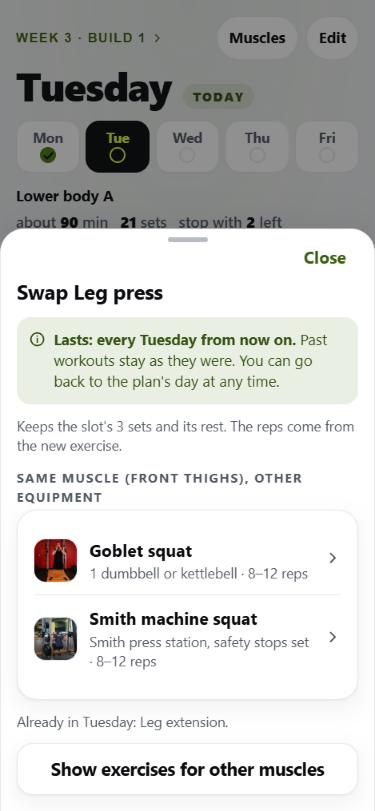
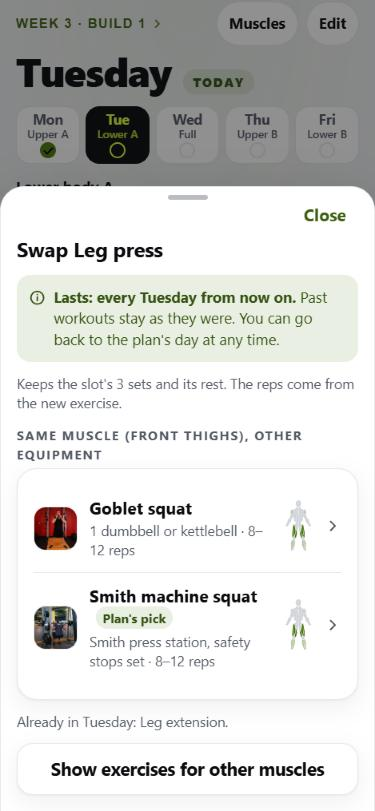
Prototype 8.28 A: review of builder B and one round of changes
REVIEW-of-B.md: what B does better and worse, two editing bugs with steps
(swap and add can put the same exercise twice in a day), measured tap counts.
Changes taken from B's ideas, done our own way: mini body map on each card and
swap row, Previous/Next in the exercise layer, day focus in the strip,
"Plan's pick" in the swap list, four ways (Search, Digits, Quick add, Copy
yesterday) on the Diet screen. Re-taken shots; REPORT section 10.

diff --git a/redesign/plan-diet/a/js/ui/plan2.js b/redesign/plan-diet/a/js/ui/plan2.js
@@ -22,10 +22,10 @@ import { videoButton, machineRow } from "./exinfo.js";
 import { icon } from "./icons.js";
 import { onMount, stagger } from "./motion.js";
 import { musclesOf, muscleWords, GROUPS, GROUP_NAME, EQ_NAME, eqOf, mainGroup } from "../proto/muscles.js";
-import { bodyMap, exerciseLevels, setsByGroup, levelFor, legend } from "../proto/bodymap.js";
+import { bodyMap, exerciseLevels, setsByGroup, levelFor, legend, miniMap } from "../proto/bodymap.js";
 import {
   slotsOf, weekSets, editRecord, runningWorkout, swapSlot, removeSlot, addExercise, restoreSlots, resetDay,
-  changeSummary, matchesFor, freeAddSlot, extraMinutes, MAX_ADDED, hiddenByGym, machineNeeded,
+  changeSummary, matchesFor, freeAddSlot, extraMinutes, MAX_ADDED, hiddenByGym,
 } from "../proto/plandays.js";
 import { undoToast } from "../proto/toast.js";
 import { renderMuscles, weeklyCounts } from "./crosscheck.js";
@@ -48,6 +48,8 @@ function restWords(slot) {
   return `rest ${slot.rest} s`;
 }
 const dayShort = (d) => days[d].name.slice(0, 3);
+// "Upper body A" -> "Upper A", "Full body (a bit lighter)" -> "Full" (strip label; idea from builder B).
+const focusShort = (d) => days[d].focus.replace(/\s*\(.*\)/, "").replace(" body", "");
 const fmtDate = (iso) => new Date(iso).toLocaleDateString("en-GB", { day: "numeric", month: "short" });
 
 function currentPos(doc) {
@@ -123,6 +125,7 @@ export function openExerciseLayer(exId, ctx = null) {
       h("button", { class: "chip", type: "button", onclick: () => { close(); doRemove(ctx.day, ctx.slot); } }, icon("close", 17), "Remove"),
       video ? videoButton(exId, { chip: true }) : null) : null,
     exerciseMaps(exId, slot ? { doc, day: ctx.day, week: ctx.week, slot: ctx.slot } : {}),
+    slot ? layerNav(doc, ctx, () => close()) : null,
     flip(exId, { cls: "big-flip", tag: true }),
     photoNote(exId),
     photoPair(exId),
@@ -134,6 +137,21 @@ export function openExerciseLayer(exId, ctx = null) {
     h("div", { class: "card" }, machineRow(exId, { onSaved: () => { closeSheets(); rerender(); } })),
     planSwaps.length ? h("p", { class: "small muted" }, `The plan's own swap: ${planSwaps.join("; ")}.`) : null);
   return close;
+}
+
+// Previous / Next: walk the day card by card without closing the layer; the "Day so far" map grows as you go
+// (idea from builder B's review; here the buttons sit right under the maps, where the eye already is).
+function layerNav(doc, ctx, close) {
+  const all = weekSlots(doc, ctx.day, ctx.week);
+  const i = all.findIndex((s) => s.slot === ctx.slot);
+  const go = (s) => { close(); openExerciseLayer(s.ex, { ...ctx, slot: s.slot }); };
+  const prev = all[i - 1];
+  const next = all[i + 1];
+  return h("div", { class: "layer-nav" },
+    h("button", { class: "button secondary", type: "button", disabled: !prev, onclick: () => prev && go(prev), "aria-label": prev ? `Previous exercise: ${exercises[prev.ex].name}` : "No previous exercise" },
+      icon("back", 18), h("span", {}, prev ? exercises[prev.ex].name : "First")),
+    h("button", { class: "button secondary", type: "button", disabled: !next, onclick: () => next && go(next), "aria-label": next ? `Next exercise: ${exercises[next.ex].name}` : "No next exercise" },
+      h("span", {}, next ? exercises[next.ex].name : "Last"), icon("chevron", 18)));
 }
 
 // ---------- changes (saved at once, permanent, with Undo) ----------
@@ -151,14 +169,15 @@ function doRemove(day, slotName) {
   withUndo(day, () => removeSlot(day, slotName), `Removed ${ex.name} from every ${days[day].name} from now on.`);
 }
 
-function swapRow(day, slotName, id, fromName) {
+function swapRow(day, slotName, id, fromName, tag = null) {
   const ex = exercises[id];
   return h("button", { class: "mach-row", type: "button", onclick: () => {
     closeSheets();
     withUndo(day, () => swapSlot(day, slotName, id), `Every ${days[day].name} from now on: ${ex.name} instead of ${fromName}.`);
   } },
   thumb(id, { small: true }),
-  h("span", { class: "grow" }, h("b", {}, ex.name), h("span", { class: "small muted" }, `${ex.equipment} · ${repText(ex)} ${repWord(ex)}`)),
+  h("span", { class: "grow" }, h("b", {}, ex.name, tag ? h("span", { class: "badge slot inline" }, tag) : null), h("span", { class: "small muted" }, `${ex.equipment} · ${repText(ex)} ${repWord(ex)}`)),
+  miniMap(id),
   h("span", { class: "muted" }, icon("chevron", 18)));
 }
 
@@ -173,6 +192,10 @@ export function openSwapList(day, slotName, week) {
   const m = matchesFor(doc, day, slot.ex);
   const eq = EQ_NAME[eqOf(slot.ex)];
   const muscle = GROUP_NAME[m.group]?.toLowerCase() ?? from.muscle;
+  // "Plan's pick" (idea from builder B): the plan's own swap for this slot, or the plan's exercise if it was swapped out.
+  const planEx = days[day].slots.find((s) => s.slot === slotName)?.ex;
+  const picks = new Set(planEx ? [planEx, ...exercises[planEx].swaps.map((sw) => sw.id)] : []);
+  const tagFor = (id) => (id === planEx ? "The plan's exercise" : picks.has(id) ? "Plan's pick" : null);
   const all = h("div", {});
   const showAll = () => {
     const inDay = new Set(slotsOf(doc, day).map((s) => s.ex));
@@ -184,8 +207,8 @@ export function openSwapList(day, slotName, week) {
     h("h2", {}, `Swap ${from.name}`),
     lastsLine(day),
     h("p", { class: "small muted" }, `Keeps the slot's ${slot.sets} sets and its rest. The reps come from the new exercise.`),
-    m.same.length ? [h("div", { class: "eyebrow" }, `Same muscle (${muscle}), same kind (${eq})`), h("div", { class: "card" }, m.same.map((id) => swapRow(day, slotName, id, from.name)))] : null,
-    m.other.length ? [h("div", { class: "eyebrow" }, `Same muscle (${muscle}), other equipment`), h("div", { class: "card" }, m.other.map((id) => swapRow(day, slotName, id, from.name)))] : null,
+    m.same.length ? [h("div", { class: "eyebrow" }, `Same muscle (${muscle}), same kind (${eq})`), h("div", { class: "card" }, m.same.map((id) => swapRow(day, slotName, id, from.name, tagFor(id))))] : null,
+    m.other.length ? [h("div", { class: "eyebrow" }, `Same muscle (${muscle}), other equipment`), h("div", { class: "card" }, m.other.map((id) => swapRow(day, slotName, id, from.name, tagFor(id))))] : null,
     !m.same.length && !m.other.length ? h("div", { class: "card warn" },
       h("p", {}, h("b", {}, `No other exercise in the app works the ${muscle} as the main muscle`), m.hidden.length ? " with the machines your gym is known to have." : "."),
       h("p", { class: "small muted" }, `Keep ${from.name}, remove it, or pick from another muscle below.`)) : null,
@@ -218,7 +241,7 @@ function openAdd(day, week) {
         withUndo(day, () => addExercise(day, id), `Added ${exercises[id].name} to the end of every ${days[day].name} from now on.`);
       } }, thumb(id, { small: true }), h("span", { class: "grow" }, h("b", {}, exercises[id].name), h("span", { class: "small muted" }, exercises[id].equipment)), h("span", { class: "muted" }, icon("plus", 18)))))
         : h("p", { class: "muted" }, `${days[day].name} already has every ${GROUP_NAME[pick].toLowerCase()} exercise the app knows.`),
-      hidden.length ? h("p", { class: "small muted" }, `Not shown: ${hidden.map((id) => exercises[id].name).join(", ")} (first visit has not found ${hidden.length > 1 ? "them" : "it"} yet: Settings > Gym; ${machineNeeded(hidden[0]) ? "a machine check" : ""}).`) : null);
+      hidden.length ? h("p", { class: "small muted" }, `Not shown: ${hidden.map((id) => exercises[id].name).join(", ")}. Your first visit has not found ${hidden.length > 1 ? "these machines" : "this machine"} yet (Settings > Gym).`) : null);
   };
   draw();
   openSheet(
@@ -269,9 +292,9 @@ function exCard(doc, day, week, slot, editing, canEdit, planSlot) {
   ];
   if (!editing) {
     return h("button", { class: "pcard", type: "button", "aria-label": `${ex.name}: ${slot.sets} sets of ${repText(ex)} ${repWord(ex)}${side(ex)}. Open details.`, onclick: () => openExerciseLayer(slot.ex, { day, week, slot: slot.slot }) },
-      ...body, h("span", { class: "muted" }, icon("chevron", 18)));
+      ...body, miniMap(slot.ex), h("span", { class: "muted" }, icon("chevron", 18)));
   }
-  return h("div", { class: "pcard editing" }, ...body,
+  return h("div", { class: "pcard editing" }, ...body, miniMap(slot.ex),
     h("span", { class: "edit-btns" },
       h("button", { class: "icon-btn", type: "button", disabled: !canEdit, "aria-label": `Swap ${ex.name}`, onclick: () => openSwapList(day, slot.slot, week) }, icon("swap", 20), h("span", {}, "Swap")),
       h("button", { class: "icon-btn", type: "button", disabled: !canEdit, "aria-label": `Remove ${ex.name}`, onclick: () => doRemove(day, slot.slot) }, icon("close", 20), h("span", {}, "Remove"))));
@@ -284,7 +307,7 @@ function dayStrip(doc, shownDay, todayDay, week) {
       class: `${d === todayDay ? "is-today" : ""} ${done.has(d) ? "is-done" : ""} ${editRecord(doc, d) ? "is-changed" : ""}`, type: "button", role: "tab",
       "aria-selected": d === shownDay ? "true" : "false", "aria-label": `${days[d].name}${d === todayDay ? ", today" : ""}${done.has(d) ? ", done" : ""}${editRecord(doc, d) ? ", changed by you" : ""}`,
       onclick: () => { state.day = d; state.editing = false; rerender(); },
-    }, h("span", { class: "d" }, dayShort(d)), h("i", { "aria-hidden": "true" }, done.has(d) ? icon("check", 14, { strokeWidth: 3 }) : null))));
+    }, h("span", { class: "d" }, dayShort(d)), h("span", { class: "f" }, focusShort(d)), h("i", { "aria-hidden": "true" }, done.has(d) ? icon("check", 14, { strokeWidth: 3 }) : null))));
 }
 
 export function renderPlan() {

diff --git a/redesign/plan-diet/a/js/ui/diet.js b/redesign/plan-diet/a/js/ui/diet.js
@@ -181,7 +181,7 @@ function messageSheet(title, text, onOwn = null) {
 // ---------- the scanner layer (camera drawn; real decoding is a later build step) ----------
 let scanLayer = null;
 function closeScanner() { if (scanLayer) { scanLayer.remove(); scanLayer = null; } }
-export function openScanner() {
+export function openScanner({ typed: typeFirst = false } = {}) {
   closeScanner();
   const digits = h("input", { type: "text", inputmode: "numeric", pattern: "[0-9]*", maxlength: "13", id: "scan-digits", placeholder: "8, 12 or 13 digits", autocomplete: "off" });
   const typed = h("form", { class: "scan-type", hidden: true, onsubmit: (e) => { e.preventDefault(); const c = digits.value.replace(/\D/g, ""); if (!c) return; closeScanner(); doLookup(c); } },
@@ -206,12 +206,13 @@ export function openScanner() {
         h("button", { class: "button ghost", type: "button", onclick: () => undoToast("Take a photo: opens the camera app for one still picture; the reader looks at that. Comes with the real build.") }, "Take a photo")),
       typed));
   document.body.append(scanLayer);
+  if (typeFirst) { typed.hidden = false; scanLayer.querySelector(".scan-two").hidden = true; digits.focus(); }
 }
 // The router closes sheets on every screen change; the scanner closes the same way (and stops the camera, in the real build).
 window.addEventListener("hashchange", closeScanner);
 
 // ---------- add sheet ----------
-export function openAdd() {
+export function openAdd({ focus = false } = {}) {
   const doc = model.doc();
   const t = todayStr();
   const yest = dayEntries(doc, addDays(t, -1));
@@ -242,6 +243,7 @@ export function openAdd() {
       h("span", { class: "muted" }, icon("chevron", 18))))),
     h("button", { class: "button secondary", type: "button", onclick: () => ownFoodSheet() }, "Make a new food"),
     offCredit());
+  if (focus) setTimeout(() => q.focus(), 50);
 }
 
 function quickSheet() {
@@ -268,6 +270,7 @@ export function renderDiet() {
   const entries = dayEntries(doc, t);
   const tot = totals(entries);
   const avg = average7(doc, t);
+  const yest = dayEntries(doc, addDays(t, -1));
   const loggedToday = new Set(entries.map((e) => e.food));
   // Foods not eaten yet today come first: they are the likely next ones.
   const recent = recentFoods(doc, 8).sort((a, b) => loggedToday.has(a.id) - loggedToday.has(b.id)).slice(0, 6);
@@ -280,6 +283,15 @@ export function renderDiet() {
       targets.protein_g ? meter("Protein", tot.protein_g, targets.protein_g, "g", "to go", "protein") : null,
       targets.kcal ? meter("Calories", tot.kcal, targets.kcal, "kcal", "left", "kcal") : null,
       avg ? h("p", { class: "small muted avg" }, `Last ${avg.n} days: ${fmt(avg.kcal)} kcal and ${fmt(avg.protein_g)} g protein a day on average.`) : null),
+    // The other ways, one tap from the tab (idea from builder B's review). Scan stays the big button in the bottom bar.
+    h("div", { class: "add-ways four" },
+      h("button", { class: "way", type: "button", onclick: () => openAdd({ focus: true }) }, icon("food", 20), h("span", {}, "Search")),
+      h("button", { class: "way", type: "button", onclick: () => openScanner({ typed: true }) }, icon("note", 20), h("span", {}, "Digits")),
+      h("button", { class: "way", type: "button", onclick: quickSheet }, icon("plus", 20), h("span", {}, "Quick add")),
+      h("button", { class: "way", type: "button", disabled: !yest.length, onclick: () => {
+        const ids = copyDay(addDays(t, -1), t); rerender();
+        undoToast(`Copied yesterday's ${ids.length} foods to today.`, () => { ids.forEach(deleteEntry); rerender(); });
+      } }, icon("undo", 20), h("span", {}, "Copy yesterday"))),
     recent.length ? [h("div", { class: "eyebrow list-eyebrow" }, "Log again · one tap"),
       h("div", { class: "card again" }, recent.map((f) => {
         const g = f.last_amount_g ?? f.serving_g ?? 100;
@@ -305,7 +317,7 @@ export function renderDiet() {
   main.className = "screen has-bar diet";
   onMount(() => stagger(main.querySelectorAll(".again-row, .log-row")));
   return [main, tabActionBar(h("div", { class: "day-nav diet-nav" },
-    h("button", { class: "button secondary", type: "button", onclick: openAdd }, icon("plus", 20), "Add food"),
+    h("button", { class: "button secondary", type: "button", onclick: () => openAdd() }, icon("plus", 20), "Your foods"),
     h("button", { class: "button", type: "button", onclick: openScanner }, icon("bolt", 20), "Scan")))];
 }
 

diff --git a/redesign/plan-diet/a/css/proto.css b/redesign/plan-diet/a/css/proto.css
@@ -235,3 +235,20 @@ input[type="search"] { flex: 1; min-width: 0; height: 52px; padding: 0 var(--s4)
 .cc-flags li > .small { flex: none; white-space: nowrap; }
 .bm.wide .bm-pair { max-width: 220px; }
 .mach-row .small.plain-line { display: block; }
+
+/* ---------- changes after the cross-review of builder B (2026-11-17) ---------- */
+.day-strip button { min-height: 58px; }
+.day-strip button .f { font: 600 11px/1 var(--font); color: var(--text-muted); white-space: nowrap; }
+.day-strip button[aria-selected="true"] .f { color: inherit; opacity: .8; }
+.bm-mini { flex: none; display: block; width: 26px; }
+.bm-mini .bm-side { width: 26px; height: auto; }
+.bm-mini .bm-side polygon { stroke-width: 10; }
+.mach-row .bm-mini { margin-left: var(--s2); }
+.layer-nav { display: grid; grid-template-columns: 1fr 1fr; gap: var(--s2); margin: var(--s3) 0; }
+.layer-nav .button { min-width: 0; margin: 0; padding: 0 var(--s2); font-size: 15px; gap: 4px; }
+.layer-nav .button + .button { margin: 0; }
+.layer-nav .button span { min-width: 0; overflow: hidden; text-overflow: ellipsis; white-space: nowrap; }
+.layer-nav .button[disabled] { opacity: .45; }
+.add-ways.four { grid-template-columns: repeat(4, 1fr); margin: var(--s3) 0 var(--s2); }
+.add-ways.four .way { min-height: 68px; font-size: 13px; }
+.add-ways.four .way:first-child { background: var(--bg-raised); color: var(--text-primary); border-color: var(--border-default); }

diff --git a/redesign/plan-diet/a/js/proto/bodymap.js b/redesign/plan-diet/a/js/proto/bodymap.js
@@ -24,6 +24,17 @@ export function bodyMap(groupLevels, { title, words, cls = "" } = {}) {
     words ? h("div", { class: "bm-words small" }, words) : null);
 }
 
+// Small one-view map for an exercise card or a swap row (idea taken from builder B's review, drawn our way): the view
+// (front or back) where the main muscle is. Decorative: the card says the muscles in words next to it.
+export function miniMap(exId) {
+  const lv = exerciseLevels(exId);
+  const levels = {};
+  for (const [g, l] of Object.entries(lv)) for (const r of REGIONS[g] ?? []) levels[r] = Math.max(levels[r] ?? 0, l);
+  const strong = new Set(Object.entries(levels).filter(([, l]) => l === 3).map(([r]) => r));
+  const onFront = FRONT.some((r) => strong.has(r.muscle));
+  return h("span", { class: "bm-mini", "aria-hidden": "true" }, side(onFront ? FRONT : BACK, levels, onFront ? "Front" : "Back"));
+}
+
 // This exercise: main muscles strong (3), helpers light (1).
 export function exerciseLevels(exId) {
   const { main, helpers } = musclesOf(exId);

diff --git a/redesign/plan-diet/a/REVIEW-of-B.md b/redesign/plan-diet/a/REVIEW-of-B.md
@@ -1,0 +1,101 @@
+# Review of builder B (commit 3fcfa48) by builder A
+
+Read-only review of commit 3fcfa48. Nothing in `redesign/plan-diet/b/` was changed by me (B was editing its own files during my review; the bugs below were seen on 3fcfa48 as served at that time). I ran B from the repo root on 127.0.0.1 at 375 x 812,
+dark and light, with Animations off (the Browser pane was hidden, which pauses entrance animations; B's slide-in froze
+half-way until I turned motion off, the same as mine). I read B's REPORT.md and grepped its code.
+Real Open Food Facts calls I made through B: 1 (the Nutella sample).
+
+## Summary
+
+B is the stronger **"see your body"** design and has a more complete Diet tab. Mine is faster at the gym and has
+fewer data bugs. B has two real bugs in permanent editing (both put the same exercise twice in a day). Both are easy to
+fix, but they are in a delicate area.
+
+## What B does better than A (honest)
+
+1. **Body map on every exercise card** (front or back view, wherever the main muscle is) and on every swap row. It
+   costs no taps and makes the muscle visible at a glance. Mine only had words on the card.
+2. **Previous / Next inside the exercise layer**, card by card, with the "Day so far" map building up as you go
+   ("Day so far · 4 of 7"). This is the best reading of "the right map shows the day up to this card": you can walk
+   the day without closing the layer.
+3. **A day map at the top of each day** with "Works most: Quads 6 · Glutes 6 …" and "Less: calves …". It answers
+   "what does today train?" in one look.
+4. **Day strip shows each day's focus** ("Upper A", "Lower A", "Full"). Mine showed only the day names.
+5. **Swap list marks "Plan's pick"** (the plan's own swap), so the safe choice is obvious.
+6. **Four big "ways" on the Diet screen** (Scan, Search, Digits, Quick). Search, typed digits and quick add are one tap
+   from the Diet tab; mine needed "Add food" first.
+7. **Check step says so when the numbers are fine** ("The numbers add up."). Both prototypes run the same add-up test
+   (4 × protein + 4 × carbs + 9 × fat against the calories); mine only speaks when something is wrong.
+8. **Scanner demo covers more cases**: saved food, real product, unknown barcode, product with no numbers, misread
+   (misread keeps the camera open with a clear message).
+9. **Meals** (breakfast, lunch, dinner, snacks) in the Diet list and a meal picker when adding; carbs and fat shown.
+10. **"Back to the plan's day" has a confirm step** that lists what goes away. Safer than my Undo-only approach for the
+    biggest change on the tab.
+11. Smaller good ideas: a sets stepper on each card in Edit mode; a warm-up step on the day page; filter chips on Gym
+    › Exercises; a 20 s timeout on Open Food Facts calls; the whole-plan check names "Not trained on purpose: traps,
+    forearms, neck, inner thighs".
+
+## What B does worse
+
+1. **Swap is deep in the layer.** "Swap for good" sits about 1,560 px down the exercise layer (2 screens of scrolling,
+   after photos, tips, video and machine). Mine puts Swap / Remove chips at the top of the layer.
+2. **First exercise below the fold.** The day map card takes about half the screen, then walk and warm-up. At the
+   gym the first exercise is not visible without scrolling. Mine shows the walk and the first exercise at once.
+3. **Day map and whole-plan check disagree.** Tuesday says "Works most: Hamstrings 6" (helpers counted half), while
+   the whole-plan check says "Hamstrings 3 · Under 10". For a non-developer this reads as a contradiction.
+4. **Whole-plan check alarms too much.** It lists 6 muscles under 10 (including biceps 5 and triceps 8, which reach 11
+   and 15.5 with helpers) and shows "Lower back 0 sets · Under 10" although lower back is not a target. Mine flags 4
+   and greys the helper-only cases.
+5. **Label mismatch in the swap list**: swapping Smith machine squat shows "Similar equipment (smith machine)" but
+   lists Leg press (a machine) under it.
+6. **Edits do not reach Today** in B's prototype: Today is a stub, so it cannot show that a swapped Tuesday changes
+   the workout. Mine wires the edit into the real Today screen and workout.
+7. **Undo lasts 5 s** (mine 8 s). Short for a gym, with a phone in one hand.
+8. **New-food portion starts at 100 g** (Nutella: "539 kcal · this portion"), not the pack's serving size. Easy to log
+   too much by mistake.
+9. **Body shapes come from body-muscles (Apache-2.0)**, not react-body-highlighter named in my brief. B kept the
+   licence and NOTICE files correctly, so it is legal; the master should just know the two use different shapes.
+
+## Bugs found (with steps)
+
+**B-1 · Swap can put the same exercise twice in a day (medium, delicate area).**
+1. `?reset=1`, Plan › Tuesday. Tap Leg press › "Swap for good" › Smith machine squat.
+2. Tap Smith machine squat › "Swap for good". Leg extension is listed with the tag "Already on Tuesday" but is a
+   normal, tappable button.
+3. Tap it. Result in `plan_days`: `A1=leg_extension … D=leg_extension`. Tuesday now has Leg extension twice (6 sets).
+Expected: rows already in the day are not offered, or are disabled.
+
+**B-2 · Add offers an exercise already in the day and puts it in an abs place (medium, delicate area).**
+1. `?reset=1`, Plan › Tuesday › "Edit Tuesday" › "Add an exercise" (the sheet offers "Abs, first / Abs, second").
+2. Pick Hamstrings. The only choice is Romanian deadlift, which is already on Tuesday (B1).
+3. Tap it. Result: `Abs1=romanian_deadlift`, shown under "Abs and holds · Short rests". So the day has the deadlift
+   twice, and the second one gets the short abs rests.
+Expected: exercises already in the day are left out; a non-abs exercise should not take an abs place (or the place
+should take that exercise's normal rest).
+
+**B-3 · Minor:** the whole-plan check marks "Lower back 0 sets · Under 10" (not a target muscle; it should be in "Not
+trained on purpose" or shown without a verdict).
+
+Checked and fine in B: no `innerHTML` and no style attributes (grep), Reduce Motion and Settings › Animations off
+respected in its motion code, OFF calls on submit only with `app_name=TrainingApp`, OFF credit on the Diet tab and the
+check step, tap on a card opens the layer, "Back to the plan's day" + confirm + Undo works, light and dark both
+readable, no sideways scroll.
+
+## Measured tap counts (B, from another tab)
+
+| Task | B | A (mine) |
+|---|---|---|
+| See Thursday | **2** (Plan › Thu) | **2** |
+| Swap an exercise | **4 + about 2 screens of scrolling** (Plan › card › scroll › "Swap for good" › pick), or **4** via Plan › "Edit Tuesday" › Swap › pick | **4** (Plan › card › Swap › pick), 3 from the day page |
+| Log a scanned food (new product) | **3 + the scan** (Diet › "Scan a barcode" › read › "Save food and add"), checked with the real Nutella lookup | **3 + the scan** |
+
+## What I will take, in my own way
+
+- A small body map on each exercise card (one view, the side with the main muscle).
+- Previous / Next in the exercise layer, with "Day so far · n of N".
+- The focus under each day in the strip.
+- "Plan's pick" in the swap list.
+- The ways (Search, Digits, Quick add, Copy yesterday) right on the Diet screen.
+
+Not taken: the big day map at the top (it pushes the first exercise below the fold, which goes against "fastest at the
+gym"), the confirm step on "Back to the plan's day" (Undo stays, fewer taps), meals (more taps per entry).

diff --git a/redesign/plan-diet/a/REPORT.md b/redesign/plan-diet/a/REPORT.md
@@ -195,15 +195,42 @@ clipped and checked before it is shown or saved; it is only ever put in text nod
 
 ## 9. Screenshots (`shots/`)
 
-33 dark and 22 light, at 375 x 812, with Animations off (the Browser pane was hidden, which pauses the entrance
+35 dark and 24 light (after the review), at 375 x 812, with Animations off (the Browser pane was hidden, which pauses the entrance
 animations; motion was checked in the code). Light versions were not taken for: 02 plan bottom, 04 layer photos,
 13 week 7, 16 running block, 22 amount sheet, 24 quick add, 26 type digits, 27 looking up, 29 check bottom,
 30 search results, 33 Progress. The scan layer is dark in both modes on purpose (camera view).
-Three files were captured at device scale (600 x 1299 instead of 375 x 812): 01-plan-day-light, 16-running-block-dark,
+Two files were captured at device scale (600 x 1299 instead of 375 x 812): 16-running-block-dark,
 19-gym-exercise-layer-light; same 375 x 812 layout, just a larger picture. Shrinking them by script was blocked by
 the permission check, so they are left as captured.
 
-## 10. Checked and not checked
+## 10. Changes after review (cross-review of builder B, 2026-11-17)
+
+Full review: [REVIEW-of-B.md](REVIEW-of-B.md). I took five of B's ideas, written my own way (no files copied from `b/`):
+
+1. **Small body map on every exercise card** and every swap row: one view, the side where the main muscle is
+   (`miniMap()` in `js/proto/bodymap.js`). Decorative; the words stay next to it.
+2. **Previous / Next in the exercise layer**, right under the two maps, named with the neighbour exercise
+   ("‹ Cable crunch", "Face pull ›"). The "Day so far" map grows as you walk the day without closing the layer.
+3. **Each day's focus in the strip** ("Upper A", "Lower A", "Full", …).
+4. **"Plan's pick"** tag in the swap list for the plan's own swap (and "The plan's exercise" when the slot was swapped).
+5. **Four ways on the Diet screen**: Search (opens the search box ready to type), Digits (opens the scanner with the
+   digits box ready), Quick add, Copy yesterday (with Undo). The bottom bar keeps Scan as the main button; the other
+   button is now "Your foods".
+
+Also fixed: the "Not shown" line in the Add sheet now reads like the swap sheet's line.
+
+Not taken, on purpose: the big day map at the top (pushes the first exercise below the fold), a confirm step on
+"Back to the plan's day" (Undo stays), meals (more taps per food).
+
+Tap counts after the changes: see Thursday 2; swap 4 from another tab (3 from the day page); log a scanned food 3 +
+the scan; **search a food or type digits: 2 from another tab** (was 3).
+
+Re-taken shots: 01 plan day, 03 layer maps, new 03b layer Previous/Next, 05 swap list (Plan's pick), 20 Diet top;
+dark and light (03 dark only). Checked in the browser: Previous/Next walks Leg press › Cable crunch › Romanian
+deadlift; Digits opens the scanner with the digits box focused; Search focuses the search box; Quick add opens;
+Copy yesterday adds 8 foods and Undo removes them.
+
+## 11. Checked and not checked
 
 Checked in the browser: swap (3 taps, lasting text, Undo toast, changed card, reaches Today), remove + Undo, add +
 the "Added" card, "Back to the plan's day" + Undo, running-workout block, no-match swap, week sheet and week 7 view,
